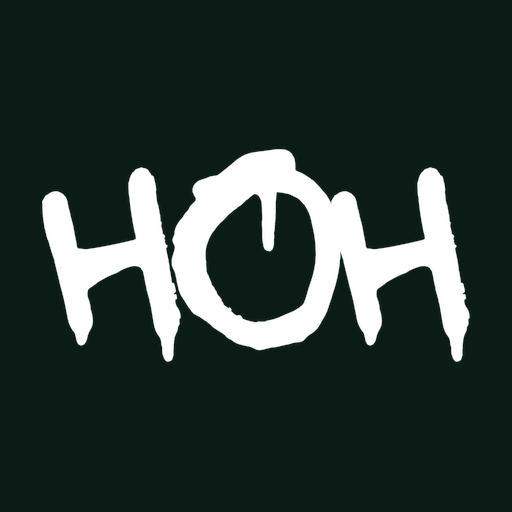
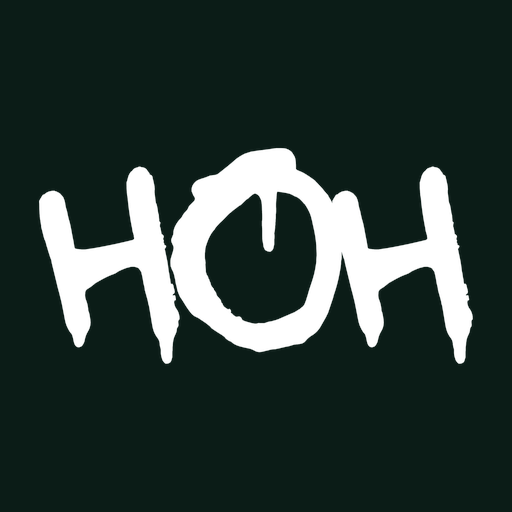
good

diff --git a/frontend/src/components/shell.tsx b/frontend/src/components/shell.tsx
@@ -3,8 +3,9 @@
 import Link from "next/link";
 import { usePathname, useRouter } from "next/navigation";
 import { useQuery, useQueryClient } from "@tanstack/react-query";
+import { Logo } from "@/components/logo";
 import { ThemeToggle } from "@/components/theme-toggle";
-import { Bell, Menu, Search, X } from "lucide-react";
+import { Bell, Building2, Compass, LayoutDashboard, LayoutGrid, LogIn, LogOut, Menu, Search, Shield, Sparkles, UserPlus, X } from "lucide-react";
 import { useState } from "react";
 
 import { Button } from "@/components/ui/button";
@@ -14,10 +15,10 @@ import type { Notification } from "@/lib/types";
 import { cn } from "@/lib/utils";
 
 const links = [
-  { href: "/opportunities", label: "Explore" },
-  { href: "/categories", label: "Categories" },
-  { href: "/organizations", label: "Organizations" },
-  { href: "/ai-assistant", label: "AI Assistant" },
+  { href: "/opportunities", label: "Explore", icon: Compass },
+  { href: "/categories", label: "Categories", icon: LayoutGrid },
+  { href: "/organizations", label: "Organizations", icon: Building2 },
+  { href: "/ai-assistant", label: "AI Assistant", icon: Sparkles },
 ];
 
 export function Shell({ children }: { children: React.ReactNode }) {
@@ -51,10 +52,9 @@ function Navbar() {
 
   return (
     <header className="sticky top-0 z-40 border-b border-border bg-card/90 text-foreground backdrop-blur-xl">
-      <div className="mx-auto flex h-16 max-w-6xl items-center gap-4 px-4">
-        <Link href="/" className="flex items-center gap-2 font-display text-lg tracking-tight">
-          <span className="grid h-8 w-8 place-items-center rounded-xl bg-primary text-sm font-bold text-primary-foreground">H</span>
-          HOH
+      <div className="mx-auto flex h-16 max-w-7xl items-center gap-3 px-4">
+        <Link href="/" className="flex items-center" aria-label="HOH home">
+          <Logo size="sm" />
         </Link>
         <nav className="ml-4 hidden items-center gap-1 md:flex">
           {links.map((link) => (
@@ -62,10 +62,11 @@ function Navbar() {
               key={link.href}
               href={link.href}
               className={cn(
-                "rounded-full px-3 py-1.5 text-sm text-muted-foreground hover:bg-muted hover:text-foreground",
-                pathname.startsWith(link.href) && "bg-muted text-foreground",
+                "inline-flex items-center gap-1.5 rounded-full px-3 py-1.5 text-sm text-muted-foreground hover:bg-muted hover:text-foreground",
+                pathname.startsWith(link.href) && "bg-accent text-primary",
               )}
             >
+              <link.icon className="h-4 w-4" />
               {link.label}
             </Link>
           ))}
@@ -124,19 +125,27 @@ function Navbar() {
           {ready && user ? (
             <>
               <Button asChild size="sm" variant="secondary" className="hidden sm:inline-flex">
-                <Link href={user.role === "ADMIN" ? "/admin" : "/dashboard"}>{user.role === "ADMIN" ? "Admin" : "Dashboard"}</Link>
+                <Link href={user.role === "ADMIN" ? "/admin" : "/dashboard"}>
+                  {user.role === "ADMIN" ? <Shield className="h-4 w-4" /> : <LayoutDashboard className="h-4 w-4" />}
+                  {user.role === "ADMIN" ? "Admin" : "Dashboard"}
+                </Link>
               </Button>
-              <button type="button" className="hidden text-sm text-muted-foreground hover:text-foreground sm:inline" onClick={logout}>
+              <button type="button" className="hidden items-center gap-1.5 text-sm text-muted-foreground hover:text-foreground sm:inline-flex" onClick={logout}>
+                <LogOut className="h-4 w-4" />
                 Log out
               </button>
             </>
           ) : (
             <div className="hidden items-center gap-2 sm:flex">
-              <Link href="/login" className="text-sm text-muted-foreground hover:text-foreground">
+              <Link href="/login" className="inline-flex items-center gap-1.5 text-sm text-muted-foreground hover:text-foreground">
+                <LogIn className="h-4 w-4" />
                 Log in
               </Link>
               <Button asChild size="sm">
-                <Link href="/register">Create profile</Link>
+                <Link href="/register">
+                  <UserPlus className="h-4 w-4" />
+                  Create profile
+                </Link>
               </Button>
             </div>
           )}
@@ -148,16 +157,19 @@ function Navbar() {
       {open && (
         <div className="space-y-1 border-t border-border px-4 py-3 md:hidden">
           {links.map((link) => (
-            <Link key={link.href} href={link.href} className="block rounded-xl px-3 py-2 text-sm hover:bg-muted" onClick={() => setOpen(false)}>
+            <Link key={link.href} href={link.href} className="flex items-center gap-2 rounded-xl px-3 py-2 text-sm hover:bg-muted" onClick={() => setOpen(false)}>
+              <link.icon className="h-4 w-4 text-primary" />
               {link.label}
             </Link>
           ))}
           {user ? (
-            <Link href={user.role === "ADMIN" ? "/admin" : "/dashboard"} className="block rounded-xl px-3 py-2 text-sm hover:bg-muted" onClick={() => setOpen(false)}>
+            <Link href={user.role === "ADMIN" ? "/admin" : "/dashboard"} className="flex items-center gap-2 rounded-xl px-3 py-2 text-sm hover:bg-muted" onClick={() => setOpen(false)}>
+              {user.role === "ADMIN" ? <Shield className="h-4 w-4 text-primary" /> : <LayoutDashboard className="h-4 w-4 text-primary" />}
               {user.role === "ADMIN" ? "Admin" : "Dashboard"}
             </Link>
           ) : (
-            <Link href="/login" className="block rounded-xl px-3 py-2 text-sm hover:bg-muted" onClick={() => setOpen(false)}>
+            <Link href="/login" className="flex items-center gap-2 rounded-xl px-3 py-2 text-sm hover:bg-muted" onClick={() => setOpen(false)}>
+              <LogIn className="h-4 w-4 text-primary" />
               Log in
             </Link>
           )}
@@ -172,7 +184,7 @@ function Footer() {
     <footer className="mt-16 border-t border-border bg-card">
       <div className="mx-auto grid max-w-6xl gap-8 px-4 py-10 md:grid-cols-4">
         <div className="md:col-span-2">
-          <p className="font-display text-xl">HOH</p>
+          <Logo size="md" />
           <p className="mt-2 max-w-sm text-sm leading-6 text-muted-foreground">
             Hargeisa Opportunity Hub brings scholarships, jobs, internships, courses, and competitions into one searchable place.
           </p>

diff --git a/frontend/src/app/layout.tsx b/frontend/src/app/layout.tsx
@@ -11,6 +11,7 @@ const display = Fraunces({ subsets: ["latin"], variable: "--font-display" });
 export const metadata: Metadata = {
   title: { default: "HOH — Hargeisa Opportunity Hub", template: "%s · HOH" },
   description: "Scholarships, jobs, internships, courses, hackathons and more — all in one place.",
+  icons: { icon: "/icon-light.png" },
 };
 
 export default function RootLayout({ children }: LayoutProps<"/">) {
@@ -19,7 +20,7 @@ export default function RootLayout({ children }: LayoutProps<"/">) {
       <body className="min-h-full bg-background text-foreground">
         <script
           dangerouslySetInnerHTML={{
-            __html: `(function(){try{var t=localStorage.getItem("hoh-theme");var d=t==="dark"||(t!=="light"&&matchMedia("(prefers-color-scheme: dark)").matches);if(d)document.documentElement.classList.add("dark");document.documentElement.style.colorScheme=d?"dark":"light";}catch(e){}})();`,
+            __html: `(function(){try{var t=localStorage.getItem("hoh-theme");var d=t==="dark"||(t!=="light"&&matchMedia("(prefers-color-scheme: dark)").matches);if(d)document.documentElement.classList.add("dark");document.documentElement.style.colorScheme=d?"dark":"light";var href=d?"/icon-dark.png":"/icon-light.png";var links=document.querySelectorAll('link[rel="icon"]');if(!links.length){var link=document.createElement("link");link.rel="icon";document.head.appendChild(link);links=[link];}for(var i=0;i<links.length;i++)links[i].href=href;}catch(e){}})();`,
           }}
         />
         <Providers>

diff --git a/frontend/src/app/ai-assistant/page.tsx b/frontend/src/app/ai-assistant/page.tsx
@@ -3,6 +3,7 @@
 import { useMutation, useQuery, useQueryClient } from "@tanstack/react-query";
 import { FormEvent, useEffect, useRef, useState } from "react";
 
+import { Logo } from "@/components/logo";
 import { OpportunityCard } from "@/components/opportunity-card";
 import { Button } from "@/components/ui/button";
 import { api } from "@/lib/api";
@@ -76,9 +77,12 @@ export default function AssistantPage() {
         </div>
       </aside>
       <section className="flex min-h-[70vh] flex-col rounded-[2rem] border border-border bg-card">
-        <header className="border-b border-border px-5 py-4">
-          <h1 className="font-display text-2xl">HOH AI Assistant</h1>
-          <p className="text-sm text-muted-foreground">Ask about approved opportunities, deadlines, and what fits your profile.</p>
+        <header className="flex items-center gap-4 border-b border-border px-5 py-4">
+          <Logo size="sm" />
+          <div>
+            <h1 className="font-display text-2xl">AI Assistant</h1>
+            <p className="text-sm text-muted-foreground">Ask about approved opportunities, deadlines, and what fits your profile.</p>
+          </div>
         </header>
         <div className="flex-1 space-y-4 overflow-auto px-5 py-5">
           {messages.length === 0 && (

diff --git a/frontend/src/app/admin/layout.tsx b/frontend/src/app/admin/layout.tsx
@@ -4,6 +4,7 @@ import Link from "next/link";
 import { usePathname } from "next/navigation";
 
 import { RequireAuth } from "@/components/guard";
+import { Logo } from "@/components/logo";
 import { ThemeToggle } from "@/components/theme-toggle";
 import { cn } from "@/lib/utils";
 
@@ -27,7 +28,10 @@ export default function AdminLayout({ children }: { children: React.ReactNode })
     <RequireAuth admin>
       <div className="min-h-screen bg-background text-foreground md:grid md:grid-cols-[240px_1fr]">
         <aside className="border-r border-border bg-card text-foreground md:min-h-screen">
-          <Link href="/" className="block px-5 py-5 font-display text-2xl">HOH Admin</Link>
+          <Link href="/" className="block px-5 py-5">
+            <Logo size="sm" />
+            <p className="mt-2 text-xs font-medium tracking-[0.14em] text-muted-foreground uppercase">Admin</p>
+          </Link>
           <nav className="flex gap-1 overflow-auto px-3 pb-4 md:block md:space-y-1">
             {links.map(([href, label]) => {
               const active = href === "/admin" ? pathname === href : pathname === href || (href !== "/admin/opportunities" && pathname.startsWith(href));

diff --git a/frontend/src/app/page.tsx b/frontend/src/app/page.tsx
@@ -8,6 +8,7 @@ import { ArrowRight, BadgeCheck, Search } from "lucide-react";
 import { FormEvent, useState } from "react";
 
 import { CategoryIcon } from "@/components/category-icon";
+import { Logo } from "@/components/logo";
 import { OpportunityCard, OrgMark } from "@/components/opportunity-card";
 import { Button } from "@/components/ui/button";
 import { api } from "@/lib/api";
@@ -60,6 +61,9 @@ export default function HomePage() {
           transition={{ duration: 10, repeat: Infinity, ease: "easeInOut" }}
         />
         <div className="relative mx-auto flex w-full max-w-3xl flex-col items-center px-4 py-24 text-center">
+          <motion.div initial={{ opacity: 0, y: 12 }} animate={{ opacity: 1, y: 0 }} transition={{ duration: 0.5 }}>
+            <Logo tone="onDark" size="lg" />
+          </motion.div>
           <motion.p
             initial={{ opacity: 0, y: 16 }}
             animate={{ opacity: 1, y: 0 }}

diff --git a/frontend/src/components/logo.tsx b/frontend/src/components/logo.tsx
@@ -1,0 +1,30 @@
+import { cn } from "@/lib/utils";
+
+const sizes = {
+  sm: "h-11",
+  md: "h-14",
+  lg: "h-20",
+};
+
+export function Logo({
+  className,
+  size = "md",
+  tone = "auto",
+}: {
+  className?: string;
+  size?: keyof typeof sizes;
+  tone?: "auto" | "onDark";
+}) {
+  const height = sizes[size];
+
+  if (tone === "onDark") {
+    return <img src="/logo-dark.png" alt="HOH" className={cn("w-auto", height, className)} />;
+  }
+
+  return (
+    <span className={cn("inline-flex items-center", className)}>
+      <img src="/logo-light.png" alt="HOH" className={cn("w-auto dark:hidden", height)} />
+      <img src="/logo-dark.png" alt="" aria-hidden className={cn("hidden w-auto dark:block", height)} />
+    </span>
+  );
+}

diff --git a/frontend/src/components/auth-frame.tsx b/frontend/src/components/auth-frame.tsx
@@ -1,8 +1,10 @@
+import { Logo } from "@/components/logo";
+
 export function AuthFrame({ title, subtitle, children }: { title: string; subtitle: string; children: React.ReactNode }) {
   return (
     <div className="mx-auto grid max-w-6xl items-center gap-8 px-4 py-12 lg:grid-cols-2">
       <div className="rounded-[2rem] bg-ink p-8 text-white md:p-12">
-        <p className="text-sm tracking-[0.16em] text-emerald-200 uppercase">HOH</p>
+        <Logo tone="onDark" size="lg" />
         <h2 className="mt-4 font-display text-4xl leading-tight">Opportunities in Hargeisa, gathered in one place.</h2>
         <p className="mt-4 text-white/70">Build a profile once. Search, save, and track everything that matches.</p>
       </div>

diff --git a/frontend/src/lib/theme.tsx b/frontend/src/lib/theme.tsx
@@ -19,6 +19,18 @@ const ThemeContext = createContext<ThemeContextValue>({
 function applyTheme(theme: Theme) {
   document.documentElement.classList.toggle("dark", theme === "dark");
   document.documentElement.style.colorScheme = theme;
+  const href = theme === "dark" ? "/icon-dark.png" : "/icon-light.png";
+  const links = document.querySelectorAll<HTMLLinkElement>('link[rel="icon"]');
+  if (links.length === 0) {
+    const link = document.createElement("link");
+    link.rel = "icon";
+    link.href = href;
+    document.head.appendChild(link);
+    return;
+  }
+  links.forEach((link) => {
+    link.href = href;
+  });
 }
 
 export function ThemeProvider({ children }: { children: React.ReactNode }) {

diff --git a/frontend/src/app/not-found.tsx b/frontend/src/app/not-found.tsx
@@ -1,7 +1,10 @@
+import { Logo } from "@/components/logo";
+
 export default function NotFound() {
   return (
     <div className="mx-auto max-w-xl px-4 py-24 text-center">
-      <h1 className="font-display text-4xl">That page is not on HOH</h1>
+      <Logo size="lg" className="mx-auto" />
+      <h1 className="mt-6 font-display text-4xl">That page is not on HOH</h1>
       <p className="mt-3 text-muted-foreground">Try search, or go back to the opportunity catalogue.</p>
     </div>
   );
